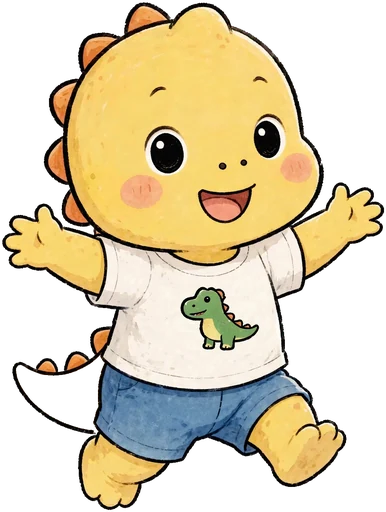
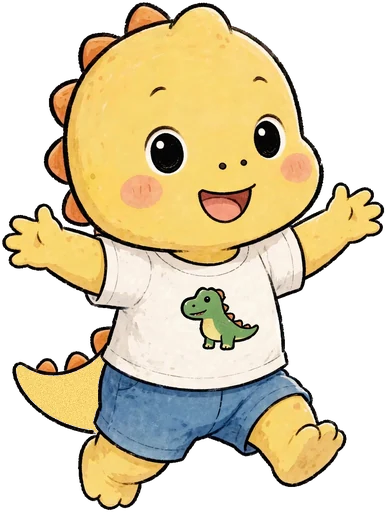
집·소리 버튼 크게(52→68, 44→64), 놀이터 머리의 설명 문구 삭제하고 티노·코코 그림(통통 튐), 티노 점프 꼬리 안쪽 투명 구멍을 몸 색으로 채움(사본만)
Claude-Session: https://claude.ai/code/session_01CpGvPXyethGHqF5urqPKbv

Changed region(s): [[0.0311, 0.6875, 0.2798, 0.8438]]

diff --git a/games/index.html b/games/index.html
@@ -23,7 +23,11 @@
     -webkit-tap-highlight-color:transparent}
   .wrap{max-width:1000px;margin:0 auto;display:grid;gap:16px}
   header{display:flex;align-items:center;gap:14px}
-  header img{width:56px;height:56px;border-radius:14px;flex:none}
+  header{justify-content:center;text-align:center}
+  header img.tw{height:110px;width:auto;flex:none;animation:twhop 2.4s ease-in-out infinite}
+  header img.c{animation-delay:1.2s}
+  @keyframes twhop{0%,100%{transform:translateY(0)}50%{transform:translateY(-8px) rotate(-3deg)}}
+  @media (max-width:420px){header img.tw{height:84px}}
   h1{font-size:1.55rem;margin:0;text-wrap:balance}
   header p{margin:2px 0 0;color:var(--sub);font-size:.92rem}
   .panel{background:var(--card);border:2px solid var(--line);border-radius:18px;padding:12px 14px;display:flex;flex-wrap:wrap;align-items:center;gap:8px 12px}
@@ -77,11 +81,9 @@
 <body>
 <div class="wrap">
   <header>
-    <img src="../shared/icons/icon-192.png" alt="">
-    <div>
-      <h1>티노코코 한글 놀이터</h1>
-      <p>3살 쌍둥이가 놀면서 한글을 보고 듣는 게임 모음. 읽으라고 시키지 않고, 틀려도 괜찮아요. 손가락 하나로 놉니다.</p>
-    </div>
+    <img class="tw t" src="../shared/assets/tino_jump_v2.webp" alt="티노">
+    <h1>티노코코<br>한글 놀이터</h1>
+    <img class="tw c" src="../shared/assets/coco_laugh_v2.webp" alt="코코">
   </header>
 
   <ul class="games">

diff --git a/shared/frame.js b/shared/frame.js
@@ -28,8 +28,8 @@ const style = document.createElement('style');
 style.textContent = `
 html,body{overscroll-behavior:none;-webkit-touch-callout:none;-webkit-user-select:none;user-select:none;-webkit-text-size-adjust:100%}
 #tkfx{position:fixed;inset:0;width:100%;height:100%;pointer-events:none;z-index:3}
-.tkbtn{position:fixed;width:52px;height:52px;border:0;border-radius:50%;padding:0;background:rgba(255,255,255,.82);
-  opacity:.62;cursor:pointer;touch-action:none;-webkit-tap-highlight-color:transparent;box-shadow:0 2px 8px rgba(0,0,0,.12)}
+.tkbtn{position:fixed;width:68px;height:68px;border:0;border-radius:50%;padding:0;background:rgba(255,255,255,.82);
+  opacity:.78;cursor:pointer;touch-action:none;-webkit-tap-highlight-color:transparent;box-shadow:0 2px 8px rgba(0,0,0,.12)}
 .tkbtn svg{width:100%;height:100%;display:block;pointer-events:none}
 .tkbtn.on{opacity:1}
 #tkhome{top:max(10px,env(safe-area-inset-top));left:max(10px,env(safe-area-inset-left));z-index:8;opacity:.8}

diff --git a/shared/tk.js b/shared/tk.js
@@ -244,8 +244,8 @@ addEventListener('keydown', e => {
 
 // ---------- 부모용 최소 UI: 소리 켜고 끄기 ----------
 const st = document.createElement('style');
-st.textContent = `#snd{position:fixed;top:max(10px,env(safe-area-inset-top));right:max(10px,env(safe-area-inset-right));width:44px;height:44px;
-border-radius:50%;border:0;background:rgba(255,255,255,.8);padding:8px;opacity:.6;cursor:pointer;z-index:2}
+st.textContent = `#snd{position:fixed;top:max(10px,env(safe-area-inset-top));right:max(10px,env(safe-area-inset-right));width:64px;height:64px;
+border-radius:50%;border:0;background:rgba(255,255,255,.85);padding:12px;opacity:.75;cursor:pointer;z-index:2;box-shadow:0 2px 8px rgba(0,0,0,.12)}
 #snd svg{width:100%;height:100%;display:block}#snd .x{display:none}#snd.off .x{display:inline}#snd.off .w{display:none}`;
 document.head.appendChild(st);
 const snd = document.createElement('button');

diff --git a/peekaboo/index.html b/peekaboo/index.html
@@ -17,7 +17,7 @@
   canvas{position:fixed;inset:0;width:100%;height:100%;display:block;touch-action:none}
   /* 부모용 최소 UI: 소리 켜고 끄기 */
   #snd{position:fixed;top:max(10px,env(safe-area-inset-top));right:max(10px,env(safe-area-inset-right));
-    width:44px;height:44px;border-radius:50%;border:0;background:rgba(255,255,255,.8);padding:8px;opacity:.6;cursor:pointer;z-index:2}
+    width:64px;height:64px;border-radius:50%;border:0;background:rgba(255,255,255,.85);padding:12px;opacity:.6;cursor:pointer;z-index:2}
   #snd svg{width:100%;height:100%;display:block}
   #snd .x{display:none}
   #snd.off .x{display:inline}

diff --git a/rainbow-bubbles/index.html b/rainbow-bubbles/index.html
@@ -19,7 +19,7 @@
   #tools{position:fixed;top:max(10px,env(safe-area-inset-top));right:max(10px,env(safe-area-inset-right));
     display:flex;gap:8px;align-items:center;z-index:2}
   #snd,#gear{
-    width:44px;height:44px;border-radius:50%;border:0;background:rgba(255,255,255,.8);
+    width:64px;height:64px;border-radius:50%;border:0;background:rgba(255,255,255,.85);
     padding:8px;opacity:.6;cursor:pointer}
   #snd svg,#gear svg{width:100%;height:100%;display:block}
   #snd .x{display:none}

diff --git a/sw.js b/sw.js
@@ -1,7 +1,7 @@
 // 티노코코 놀이터 오프라인 저장 (사이트 맨 위에 하나). 한 번 열면 인터넷 없이도 모든 게임이 열린다.
 // 저장된 것을 먼저 보여주고, 인터넷이 되면 뒤에서 새 파일로 바꿔 둔다 (다음에 열 때 반영).
 // VERSION 과 목록은 common/build_games.py 가 만든다.
-const VERSION = 'playground-a0156b9ffe';
+const VERSION = 'playground-7e7502980c';
 const PRECACHE = [
  "./",
  "./index.html",

diff --git a/common/build_games.py b/common/build_games.py
@@ -195,6 +195,34 @@ def fresh(src, out):
     return os.path.exists(out) and os.path.getmtime(out) >= os.path.getmtime(src)
 
 
+def fill_sprite_holes(im):
+    """원본 PNG 는 그대로 두고 사본에서만: 테두리로 둘러싸인 투명 구멍(티노 점프 꼬리 안쪽 등)을 몸 색으로 채움.
+    바깥과 이어진 투명 부분은 그대로. 50px 보다 작은 틈은 무시."""
+    import numpy as np
+    from collections import deque
+    a = np.asarray(im.convert('RGBA')).copy(); h, w = a.shape[:2]; tr = a[..., 3] < 40
+    seen = np.zeros((h, w), bool); q = deque()
+    for x in range(w):
+        for y in (0, h - 1):
+            if tr[y, x] and not seen[y, x]: seen[y, x] = True; q.append((y, x))
+    for y in range(h):
+        for x in (0, w - 1):
+            if tr[y, x] and not seen[y, x]: seen[y, x] = True; q.append((y, x))
+    while q:
+        y, x = q.popleft()
+        for dy, dx in ((1, 0), (-1, 0), (0, 1), (0, -1)):
+            yy, xx = y + dy, x + dx
+            if 0 <= yy < h and 0 <= xx < w and tr[yy, xx] and not seen[yy, xx]: seen[yy, xx] = True; q.append((yy, xx))
+    hole = tr & ~seen
+    if hole.sum() < 50: return im
+    body = (a[..., 3] > 200) & (a[..., 0] > 215) & (a[..., 1] > 175) & (a[..., 2] < 150)   # 노란 몸 색
+    col = np.median(a[body][:, :3], axis=0) if body.any() else np.array([243, 210, 110])
+    rng = np.random.default_rng(1); noise = rng.normal(0, 6, (h, w, 1))   # 크레용 결처럼 살짝 얼룩
+    fill = np.clip(col[None, None, :] + noise, 0, 255)
+    a[hole, :3] = fill[hole]; a[hole, 3] = 255
+    return Image.fromarray(a, 'RGBA')
+
+
 def build_pics():
     """art/cut/{w,d,h,f}_이름.png (cut_sheets.py 결과) → shared/pics/이름.webp, 목록을 hangul.js 에 써 넣음."""
     src, dst = os.path.join(ROOT, 'art', 'cut'), os.path.join(ROOT, 'shared', 'pics')
@@ -227,7 +255,7 @@ def build():
     os.makedirs(os.path.join(ROOT, 'shared', 'assets'), exist_ok=True)
     for s in SPRITES:   # 원본 PNG(assets/)는 그대로, 게임용은 같은 크기 WebP 사본 (5장 1.1MB → 약 0.19MB)
         src, out = os.path.join(ROOT, 'assets', s + '.png'), os.path.join(ROOT, 'shared', 'assets', s + '.webp')
-        if not fresh(src, out): Image.open(src).save(out, 'WEBP', quality=88, method=6)
+        if not fresh(src, out) or os.path.getmtime(__file__) > os.path.getmtime(out): fill_sprite_holes(Image.open(src)).save(out, 'WEBP', quality=88, method=6)
         old = os.path.join(ROOT, 'shared', 'assets', s + '.png')
         if os.path.exists(old): os.remove(old)
     for n in (180, 192, 512):
